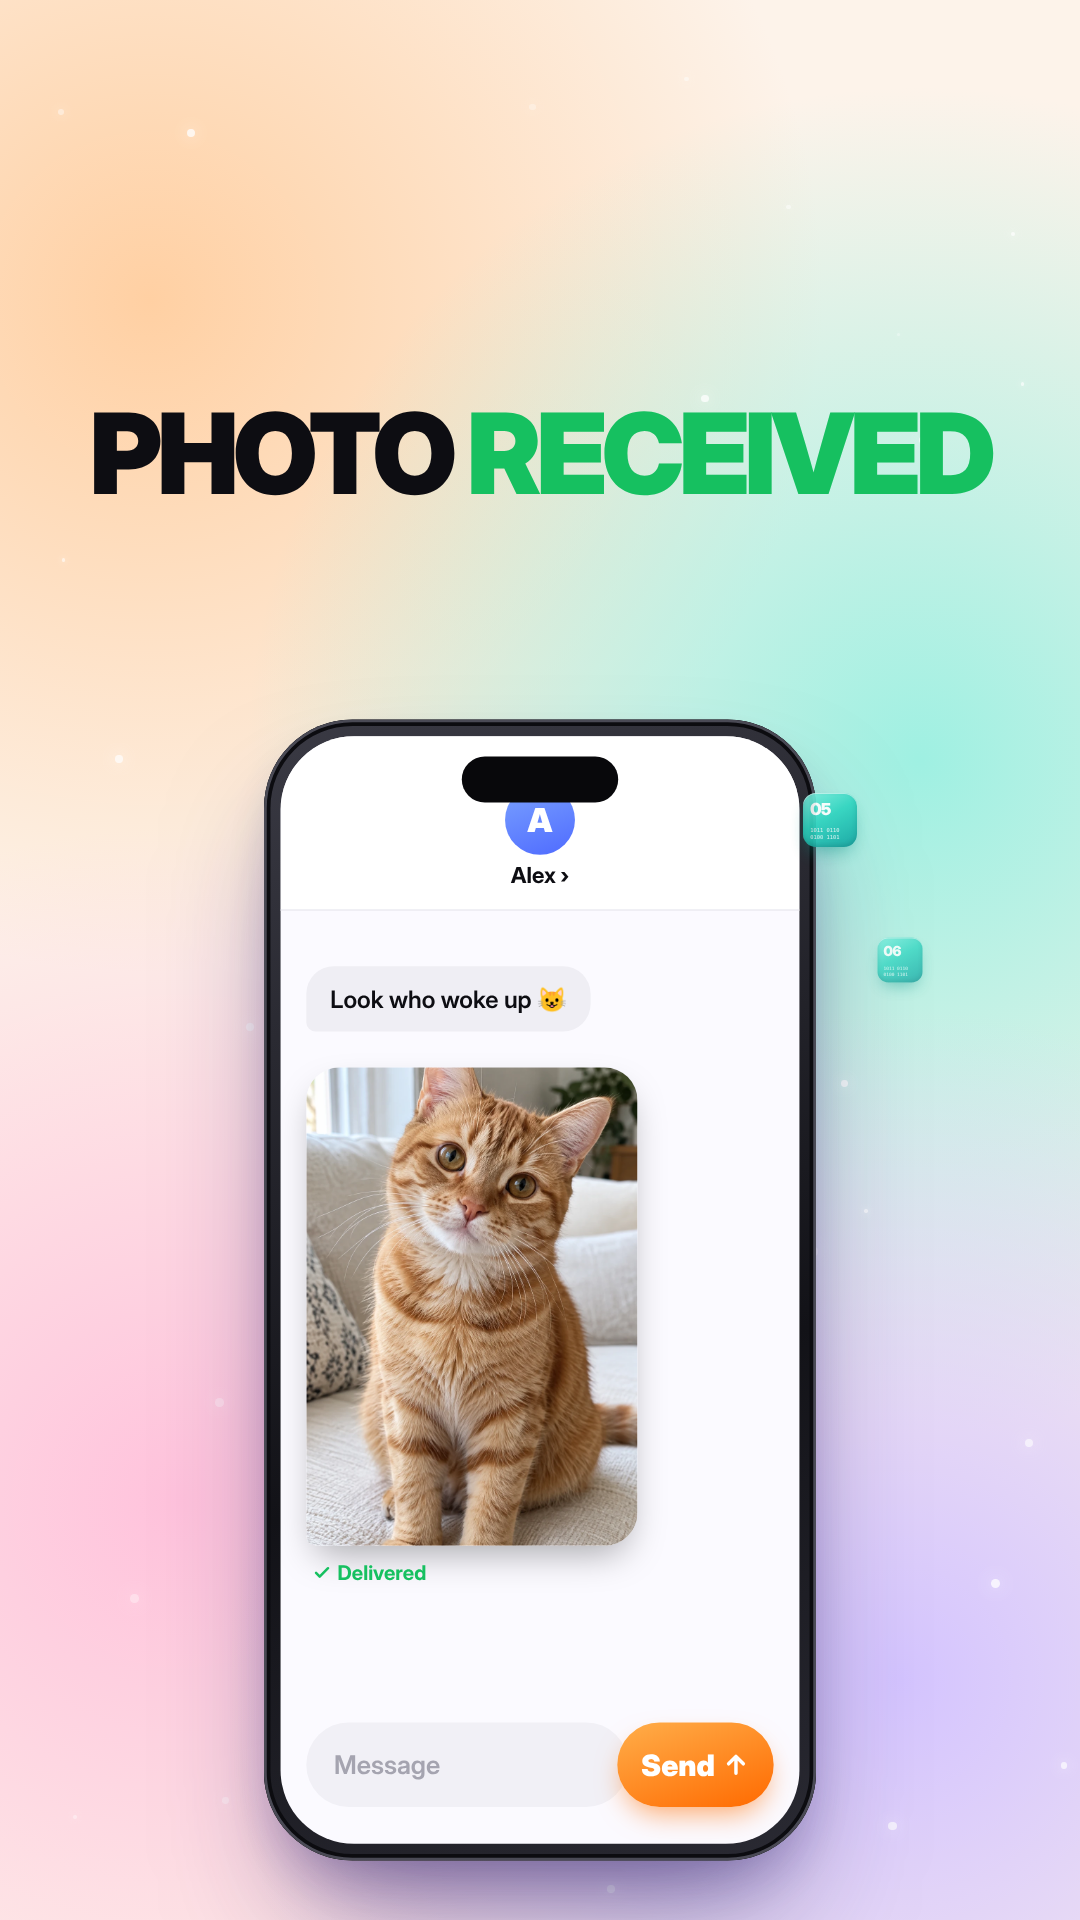
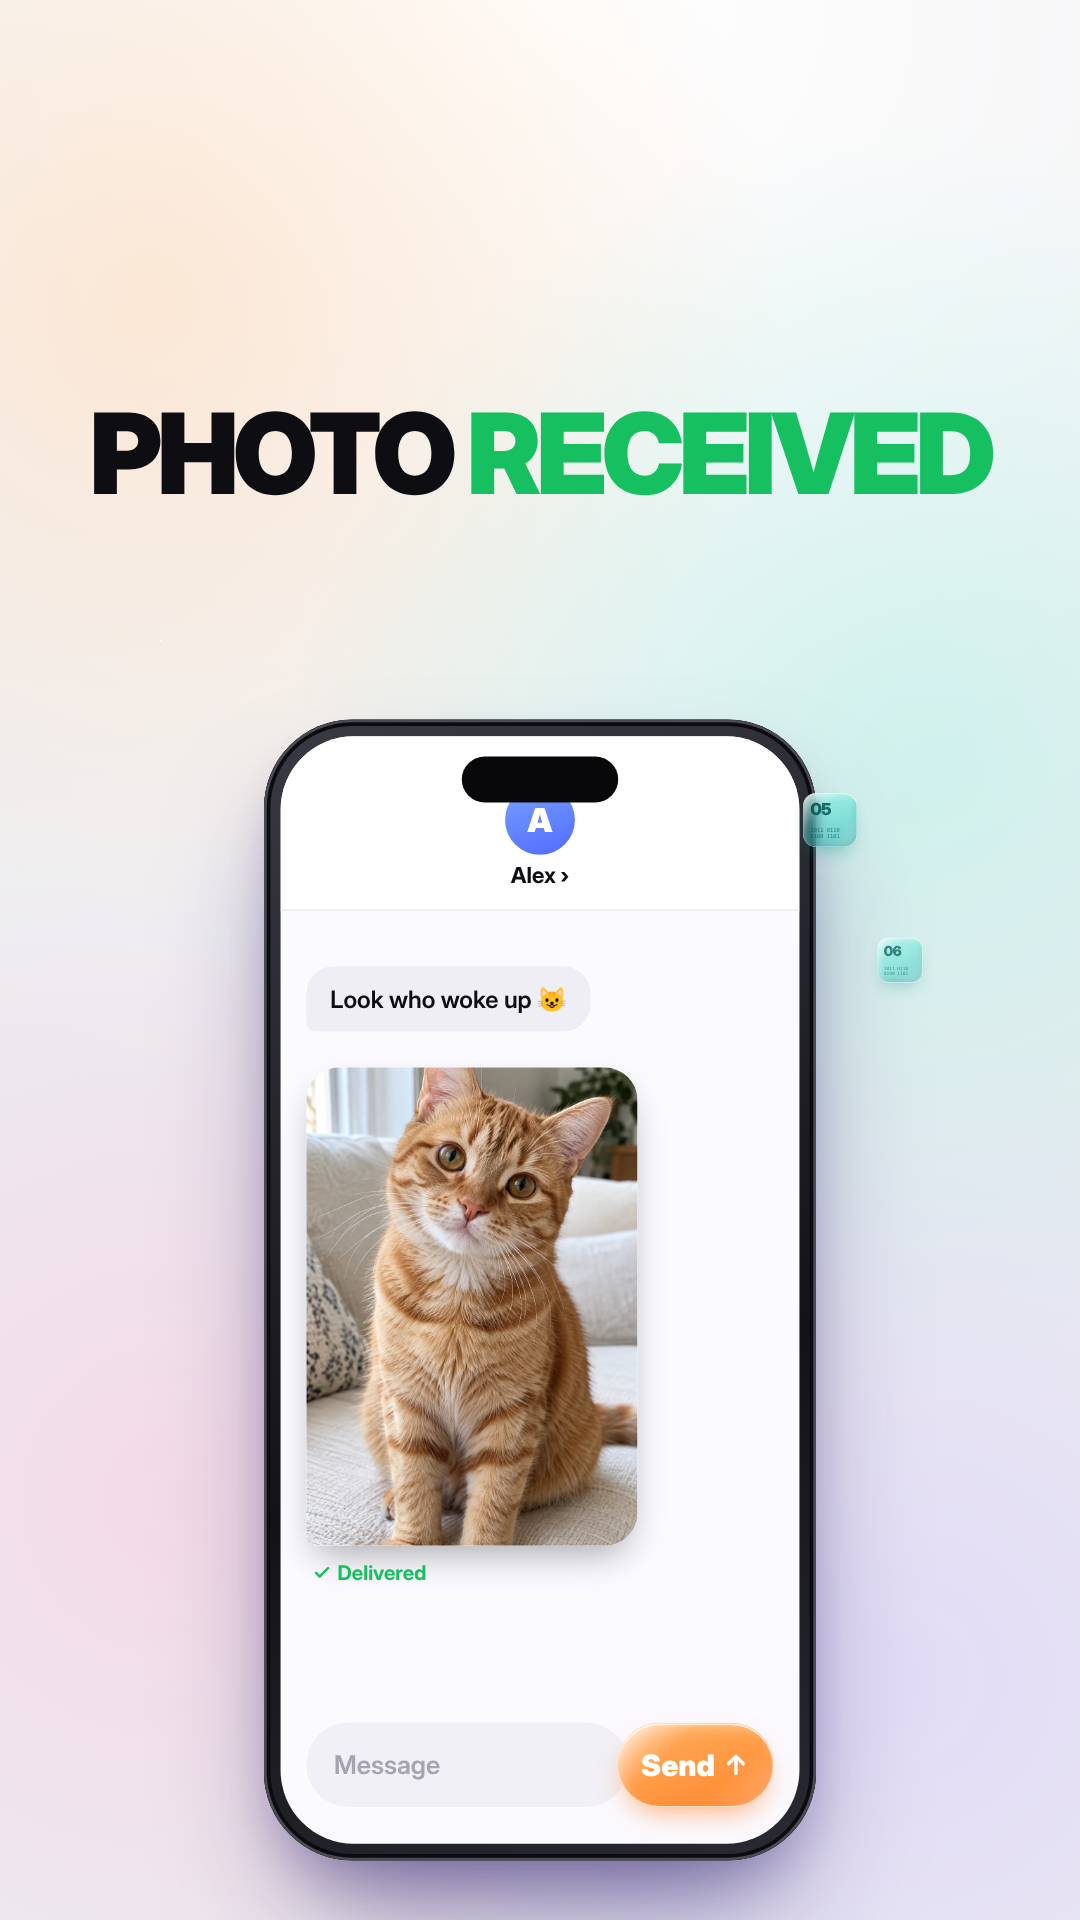
send-photo: mockup v4 — light Apple background + Liquid Glass
Claude-Session: https://claude.ai/code/session_01QM2gWBww91cH489KLK5YTv

Changed region(s): [[0.0, 0.0, 0.6722, 0.4062], [0.5806, 0.2188, 1.0, 0.5312], [0.55, 0.875, 0.7333, 0.9688]]

diff --git a/projects/send-photo/src/mockup.html b/projects/send-photo/src/mockup.html
@@ -27,6 +27,21 @@ body{font-family:'Inter Display','Inter',sans-serif;-webkit-font-smoothing:antia
   box-shadow:0 26px 50px -16px rgba(13,148,136,.6),inset 0 3px 0 rgba(255,255,255,.55),inset 0 -6px 14px rgba(0,80,80,.25);color:#fff}
 .blk .n{position:absolute;left:20px;top:16px;font-weight:900;font-size:46px;letter-spacing:-.03em}
 .blk .bits{position:absolute;left:20px;bottom:18px;font-size:15px;opacity:.85;line-height:1.25}
+/* ── Liquid Glass ── */
+body.lg .card{background:linear-gradient(160deg,rgba(255,255,255,.66) 0%,rgba(255,255,255,.30) 100%);
+  -webkit-backdrop-filter:blur(24px) saturate(1.9);backdrop-filter:blur(24px) saturate(1.9);border:1.5px solid rgba(255,255,255,.8);
+  box-shadow:0 34px 70px -26px rgba(30,30,70,.28),0 8px 20px -8px rgba(30,30,70,.10),inset 0 2px 0 rgba(255,255,255,.95),inset 0 -1.5px 0 rgba(255,255,255,.55),
+    inset 14px 18px 34px -16px rgba(255,255,255,.85),inset -14px -18px 36px -16px rgba(110,130,190,.28)}
+body.lg .card::before,body.lg .blk::before,body.lg .pill::before{content:'';position:absolute;inset:0;border-radius:inherit;pointer-events:none;
+  background:linear-gradient(135deg,rgba(255,255,255,.65) 0%,rgba(255,255,255,0) 34%,rgba(255,255,255,0) 68%,rgba(255,255,255,.28) 100%)}
+body.lg .blk{background:linear-gradient(150deg,rgba(150,245,230,.62) 0%,rgba(45,212,191,.42) 50%,rgba(13,160,155,.55) 100%);color:#065f5b;
+  -webkit-backdrop-filter:blur(16px) saturate(1.9);backdrop-filter:blur(16px) saturate(1.9);border:1.5px solid rgba(255,255,255,.75);
+  box-shadow:0 26px 50px -18px rgba(13,148,136,.45),inset 0 2px 0 rgba(255,255,255,.9),inset 10px 12px 26px -12px rgba(255,255,255,.8),inset -10px -14px 26px -12px rgba(0,90,90,.25)}
+body.lg .pill{position:absolute}
+body.lg .pill:not(#sendBtn){background:rgba(255,255,255,.42)!important;-webkit-backdrop-filter:blur(18px) saturate(1.8);backdrop-filter:blur(18px) saturate(1.8);
+  border:1.5px solid rgba(255,255,255,.85);box-shadow:0 16px 34px -14px rgba(20,40,80,.3),inset 0 2px 0 rgba(255,255,255,.95),inset 8px 10px 20px -10px rgba(255,255,255,.8)!important}
+body.lg #sendBtn{background:linear-gradient(160deg,rgba(255,170,80,.92),rgba(255,106,0,.82))!important;border:1.5px solid rgba(255,255,255,.65);
+  box-shadow:0 14px 30px -10px rgba(255,110,0,.55),inset 0 2px 0 rgba(255,255,255,.7),inset 8px 10px 18px -10px rgba(255,255,255,.6)!important}
 </style>
 </head>
 <body>
@@ -46,13 +61,14 @@ const IC={
 };
 const ell2=0;const icon=(n,s,c,sw=2)=>`<svg width="${s}" height="${s}" viewBox="0 0 24 24" fill="none" stroke="${c}" color="${c}" stroke-width="${sw}" stroke-linecap="round" stroke-linejoin="round">${IC[n]}</svg>`;
 
-const [FID,BGV]=(location.hash||'#1a').slice(1).split('~');
+const [FID,BGV0]=(location.hash||'#1a').slice(1).split('~');const BGV=BGV0||'G';
 const BGS={
  A:`background:radial-gradient(120% 60% at 50% 0%,#ffffff 0%,#f5f5f7 55%,#ececf0 100%)`,
  B:`background:radial-gradient(90% 55% at 50% 38%,#1f2738 0%,#0d1018 58%,#050608 100%)`,
  C:`background:radial-gradient(70% 45% at 50% 45%,rgba(45,212,191,.16),rgba(45,212,191,0) 70%),linear-gradient(rgba(40,70,140,.07) 2px,transparent 2px) 0 0/60px 60px,linear-gradient(90deg,rgba(40,70,140,.07) 2px,transparent 2px) 0 0/60px 60px,#f4f6fb`,
  D:`background:linear-gradient(180deg,#e3f6f3 0%,#eef2fb 50%,#f6f1ff 100%)`};
-function bg(base,c){if(BGV)return `<div class="abs" style="inset:0;${BGS[BGV]}"></div>`;return `<div class="abs" style="inset:0;background:${base}">${[[150,300],[920,760],[180,1500],[900,1680]].map((p,i)=>`<div class="blob" style="left:${p[0]-700}px;top:${p[1]-700}px;background:radial-gradient(circle,${c[i]} 0%,${c[i]}00 68%)"></div>`).join('')}</div>`}
+BGS.G=BGS.A;
+function bg(base,c){if(BGV==='G')return `<div class="abs" style="inset:0;${BGS.A}">${[[150,300],[920,760],[180,1500],[900,1680]].map((p,i)=>`<div class="blob" style="opacity:.42;left:${p[0]-700}px;top:${p[1]-700}px;background:radial-gradient(circle,${c[i]} 0%,${c[i]}00 64%)"></div>`).join('')}</div>`;if(BGV)return `<div class="abs" style="inset:0;${BGS[BGV]}"></div>`;return `<div class="abs" style="inset:0;background:${base}">${[[150,300],[920,760],[180,1500],[900,1680]].map((p,i)=>`<div class="blob" style="left:${p[0]-700}px;top:${p[1]-700}px;background:radial-gradient(circle,${c[i]} 0%,${c[i]}00 68%)"></div>`).join('')}</div>`}
 function dust(n=30){if(BGV&&BGV!=='B')return '';let s='';for(let i=0;i<n;i++){const h=k=>{const x=Math.sin((i+k)*127.1+311.7)*43758.5453;return x-Math.floor(x)};const r=3+h(1)*6;s+=`<div class="abs" style="left:${h(2)*1080}px;top:${h(3)*1920}px;width:${r}px;height:${r}px;border-radius:50%;background:#fff;opacity:${.3+h(4)*.5};box-shadow:0 0 ${r*2}px #fff"></div>`}return s}
 // subtitle: words, number revealed, key word index → colour
 function sub(){return '';}
@@ -199,7 +215,7 @@ F['6']=()=>{
   `<div class="sq" style="position:absolute;left:330px;top:1640px;width:96px;height:96px;border-radius:50%;background:linear-gradient(160deg,#ffae4a,#ff6a00);box-shadow:0 0 0 16px rgba(255,122,26,.18),0 14px 28px -8px rgba(255,110,0,.6)">${icon('tap',54,'#fff',2.4)}</div>
    <div class="abs" style="left:446px;top:1666px;font-weight:800;font-size:30px;color:#ff6a00">one tiny action</div>`;};
 
-const id=FID;if(BGV==='B')document.body.style.color='#fff';root.innerHTML=F[id]();
+const id=FID;if(BGV==='G')document.body.classList.add('lg');if(BGV==='B')document.body.style.color='#fff';root.innerHTML=F[id]();
 function post(){
   document.querySelectorAll('.sub span[data-k]').forEach(sp=>{const r=sp.getBoundingClientRect(),W=r.width+64,H=r.height+30;
     root.insertAdjacentHTML('beforeend',ell(r.left+r.width/2-W/2,r.top+r.height/2-H/2+4,W,H,sp.dataset.k));});
